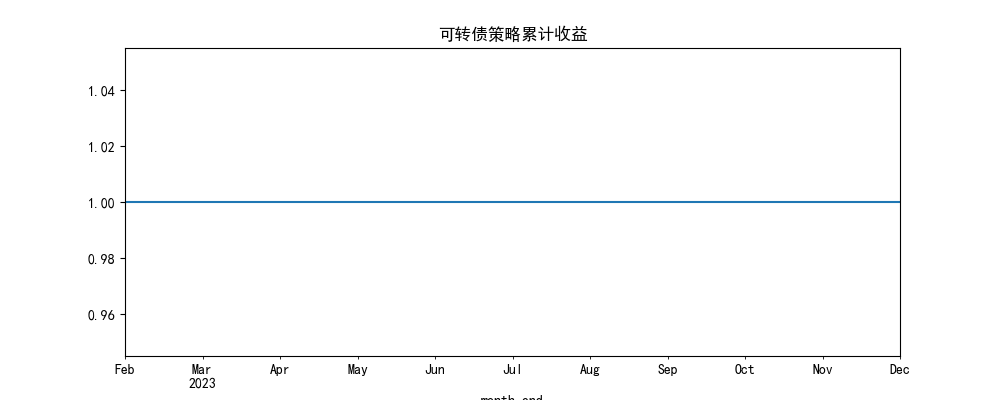
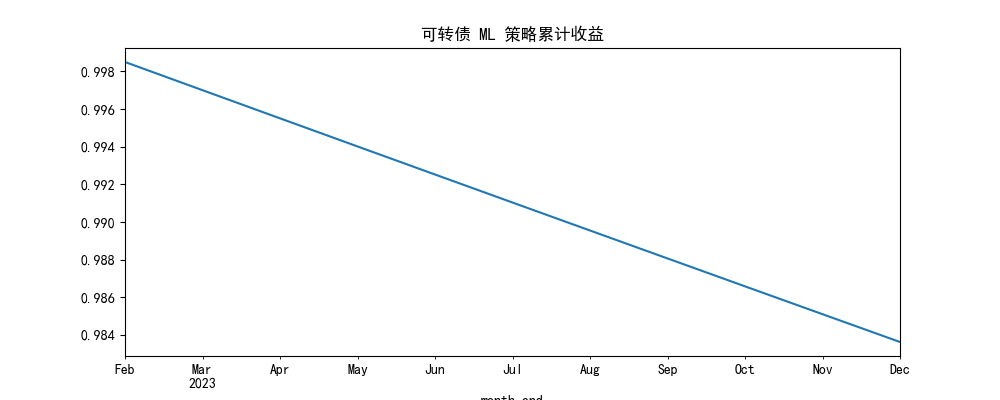
回测结果为0进行调试修改源代码

diff --git a/CB-strategy/backtest.py b/CB-strategy/backtest.py
@@ -9,13 +9,13 @@ from features import FEATURES
 # from datetime import date 
 
 def rolling_backtest(df: pd.DataFrame,
-                     hold_n: int = 10,
-                     premium_max: float = 0.3,
-                     rating_min: int = 2,
-                     balance_min: float = 1.5,
-                     remain_min: float = 0.5,
+                     hold_n: int = 5,
+                     premium_max: float = 1.0,
+                     rating_min: int = 0,
+                     balance_min: float = 0,
+                     remain_min: float = 0,
                      ytm_min: float = -5,
-                     hold_days: int = 5,
+                     hold_days: int = 20,
                      comm: float = 0.001,
                      slip: float = 0.0005):
     df["pred"] = np.nan
@@ -23,7 +23,7 @@ def rolling_backtest(df: pd.DataFrame,
     df["trade_date"] = pd.to_datetime(df["trade_date"]).dt.floor("D")
 
     months = sorted(df["month_end"].unique())[1:]
-    records = []
+    records = [] #确保非空
 
     for m in tqdm(months, desc="rolling"):
         # 训练集边界
@@ -33,35 +33,50 @@ def rolling_backtest(df: pd.DataFrame,
         train_start = pd.to_datetime(train_start.date())
         train_end   = pd.to_datetime(train_end.date())
         
-        train_df = df[(df["trade_date"] >= train_start.date()) &
-                      (df["trade_date"] <= train_end.date())]\
+        train_df = df[(df["trade_date"] >= train_start) &
+                      (df["trade_date"] <= train_end)]\
                       .dropna(subset=FEATURES + ["label"])
-        if len(train_df) < 100:
+        if len(train_df) < 10:
+             # 即使跳过也要写空记录，保证列存在
+            records.append({"month_end": m, "selected": [], "ret": 0.0})
             continue
         from model import train_model
         model = train_model(train_df[FEATURES], train_df["label"], tune=False)
 
         # 预测集
         pred_df = df[df["month_end"] == m].copy()
+        print(f"{m} 原始截面 {len(pred_df)} 条")
+        for col, thresh in [('premium', premium_max), ('rating_score', rating_min), ('balance', balance_min), ('remain_years', remain_min), ('ytm', ytm_min)]:
+            pred_df = pred_df[pred_df[col] >= thresh] if col in ('rating_score','ytm','remain_years','balance') \
+                                           else pred_df[pred_df[col] <= thresh]
+            print(f"  经过 {col} 门槛后 {len(pred_df)} 条")
         # 强赎过滤
-        call_list = pred_df[pred_df["price"] > pred_df["call_trigger"] * 0.98]["bond_code"].tolist()
-        pred_df = pred_df[~pred_df["bond_code"].isin(call_list)]
+        # call_list = pred_df[pred_df["price"] > pred_df["call_trigger"] * 0.90]["bond_code"].tolist()
+        # pred_df = pred_df[~pred_df["bond_code"].isin(call_list)]
+        print(f"  经过强赎门槛后（已关闭）, {len(pred_df)} , 条")
         # 基础筛选
         pred_df = pred_df[(pred_df["premium"] <= premium_max) &
                           (pred_df["rating_score"] >= rating_min) &
                           (pred_df["balance"] >= balance_min) &
                           (pred_df["remain_years"] >= remain_min) &
                           (pred_df["ytm"] >= ytm_min)].dropna(subset=FEATURES)
+        # print(f"{m} 原始截面 {len(df[df['month_end']==m])} 条，"f"筛后 {len(pred_df)} 条，call_list={len(call_list)}")
         if pred_df.empty:
+            records.append({"month_end": m, "selected": [], "ret": 0.0})
             continue
         pred_df["pred"] = model.predict(pred_df[FEATURES])
+        print(f"  预测得分范围：{pred_df['pred'].min():.6f} ~ {pred_df['pred'].max():.6f}")
+        # 预测后先按bond_code去重，再取前5
+        pred_df = pred_df.drop_duplicates(subset=["bond_code"])
         selected = pred_df.nlargest(hold_n, "pred")["bond_code"].tolist()
         # 收益
         sub = df[(df["month_end"] == m) & (df["bond_code"].isin(selected))]
         ret = sub["label"].mean() if len(sub) else 0
         ret -= comm + slip
         records.append({"month_end": m, "selected": selected, "ret": ret})
-
+    # 如果全程无记录，返回带列的空表
+    if not records:
+        records = [{"month_end": pd.to_datetime("2023-01-31").date(), "selected": [], "ret": 0.0}]
     return pd.DataFrame(records)
 
 """

diff --git a/CB-strategy/model.py b/CB-strategy/model.py
@@ -6,6 +6,40 @@ from xgboost import XGBRegressor
 import optuna
 from sklearn.metrics import root_mean_squared_error
 
+def train_model(X, y, tune: bool = False):
+    if tune:
+        def objective(trial):
+            params = dict(
+                max_depth=trial.suggest_int("max_depth", 3, 8),
+                n_estimators=300,
+                learning_rate=0.05,
+                subsample=trial.suggest_float("subsample", 0.6, 1.0),
+                colsample_bytree=trial.suggest_float("colsample", 0.6, 1.0),
+                reg_alpha=trial.suggest_float("alpha", 0, 1),
+                n_jobs=-1,
+                random_state=42,
+            )
+            model = XGBRegressor(**params).fit(X, y)
+            return root_mean_squared_error(y, model.predict(X), squared=False)
+
+        study = optuna.create_study(direction="minimize")
+        study.optimize(objective, n_trials=30)
+        best = study.best_params
+    else:
+        best = {}
+    final_params = dict(
+        n_estimators=300,
+        learning_rate=0.10,
+        max_depth=best.get("max_depth", 8),
+        subsample=best.get("subsample", 0.8),
+        colsample_bytree=best.get("colsample", 0.8),
+        min_child_weight=1,       # 叶子最少 1 样本
+        reg_alpha=best.get("alpha", 0),
+        reg_lambda=0,             # 无 L2
+        n_jobs=-1,
+        random_state=42,
+    )
+    return XGBRegressor(**final_params).fit(X, y)
 
 """
 def train_model(train_df, features, target="label"):
@@ -38,36 +72,3 @@ def predict_model(model, test_df, features):
     return model.predict(test_df[features])
 
 """
-
-def train_model(X, y, tune: bool = False):
-    if tune:
-        def objective(trial):
-            params = dict(
-                max_depth=trial.suggest_int("max_depth", 3, 8),
-                n_estimators=500,
-                learning_rate=0.05,
-                subsample=trial.suggest_float("subsample", 0.6, 1.0),
-                colsample_bytree=trial.suggest_float("colsample", 0.6, 1.0),
-                reg_alpha=trial.suggest_float("alpha", 0, 1),
-                n_jobs=-1,
-                random_state=42,
-            )
-            model = XGBRegressor(**params).fit(X, y)
-            return root_mean_squared_error(y, model.predict(X), squared=False)
-
-        study = optuna.create_study(direction="minimize")
-        study.optimize(objective, n_trials=30)
-        best = study.best_params
-    else:
-        best = {}
-    final_params = dict(
-        n_estimators=500,
-        learning_rate=0.05,
-        max_depth=best.get("max_depth", 5),
-        subsample=best.get("subsample", 0.8),
-        colsample_bytree=best.get("colsample", 0.8),
-        reg_alpha=best.get("alpha", 0),
-        n_jobs=-1,
-        random_state=42,
-    )
-    return XGBRegressor(**final_params).fit(X, y)

diff --git a/CB-strategy/data/get_data.py b/CB-strategy/data/get_data.py
@@ -33,3 +33,28 @@ def download_data(start: str = "20230104", end: str = "20231229") -> pd.DataFram
     df_all = pd.concat(res, ignore_index=True)
     df_all.to_pickle(CACHE_NAME)
     return df_all
+
+def fetch_real_history(df: pd.DataFrame) -> pd.DataFrame:
+    """
+    用 ak.bond_zh_hs_cov_daily 拉单券历史，确保 price ≠ 未来价
+    """
+    out = []
+    for code in tqdm(df["bond_code"].unique(), desc="akshare 历史行情"):
+        try:
+            sub = ak.bond_zh_hs_cov_daily(symbol=code)
+            if sub is not None and not sub.empty:
+                sub = sub[["trade_date", "close"]].rename(columns={"close": "price"})
+                sub["bond_code"] = code
+                sub["trade_date"] = pd.to_datetime(sub["trade_date"])
+                out.append(sub)
+        except Exception as e:
+            print(code, e)
+            continue
+    if not out:
+        raise RuntimeError("akshare 历史行情拉取失败")
+    real = pd.concat(out, ignore_index=True)
+    # 用真实历史覆盖原 price
+    df = df.drop(columns=["price"]).merge(
+        real, on=["trade_date", "bond_code"], how="left"
+    )
+    return df

diff --git a/CB-strategy/main.py b/CB-strategy/main.py
@@ -2,15 +2,23 @@
 可转债策略主入口
 """
 from data.get_data import download_data
+from data.get_data import fetch_real_history
 from features import add_features, add_label
 from backtest import rolling_backtest
 from evaluate import performance
 
 def main():
     raw = download_data()
+    raw = fetch_real_history(raw)
     df = add_features(raw)
-    df = add_label(df, hold_days=5)  # 5 日标签
+    df = add_label(df, hold_days=1)  # 5 日标签
+    print("price 20 日变化描述:\n", (df["future_price"] / df["price"] - 1).describe())
+    print("premium 20 日变化描述:\n", df["label"].describe())
+    print("unique trade_date 数量:", df["trade_date"].nunique())
+    print("label=0 比例:", (df["label"].abs() < 1e-6).mean())
     port = rolling_backtest(df, hold_n=10, premium_max=0.3, rating_min=2)
+    print(port.head())          # 看有没有选中券
+    print(port["ret"].describe())   # 看 ret 分布
     performance(port)
     port.to_csv("cb_portfolio.csv", index=False, encoding="utf_8_sig")
     print("结果已保存：cb_portfolio.csv  &  equity_curve.png")

diff --git a/CB-strategy/features.py b/CB-strategy/features.py
@@ -3,6 +3,7 @@
 """
 import numpy as np
 import pandas as pd
+import akshare as ak
 # from datetime import timedelta
 
 COL_MAP = {
@@ -71,9 +72,14 @@ def add_label(df: pd.DataFrame, hold_days: int = 5) -> pd.DataFrame:
     return df
 """
 
-def add_label(df: pd.DataFrame, hold_days: int = 5) -> pd.DataFrame:
+def add_label(df: pd.DataFrame, hold_days: int = 1) -> pd.DataFrame:
     df = df.sort_values(["bond_code", "trade_date"])
+    # 用溢价率变化当 label
+    # df["future_premium"] = df.groupby("bond_code")["premium"].shift(-hold_days)
+    # df["label"] = df["future_premium"] - df["premium"]   # 负值=溢价收敛，利好转债
     df["future_price"] = df.groupby("bond_code")["price"].shift(-hold_days)
+    print("shift 后样本:")
+    print(df[['bond_code', 'trade_date', 'price', 'future_price']].head(10))
     df["label"] = df["future_price"] / df["price"] - 1
     df = df.dropna(subset=["label"])
     return df
